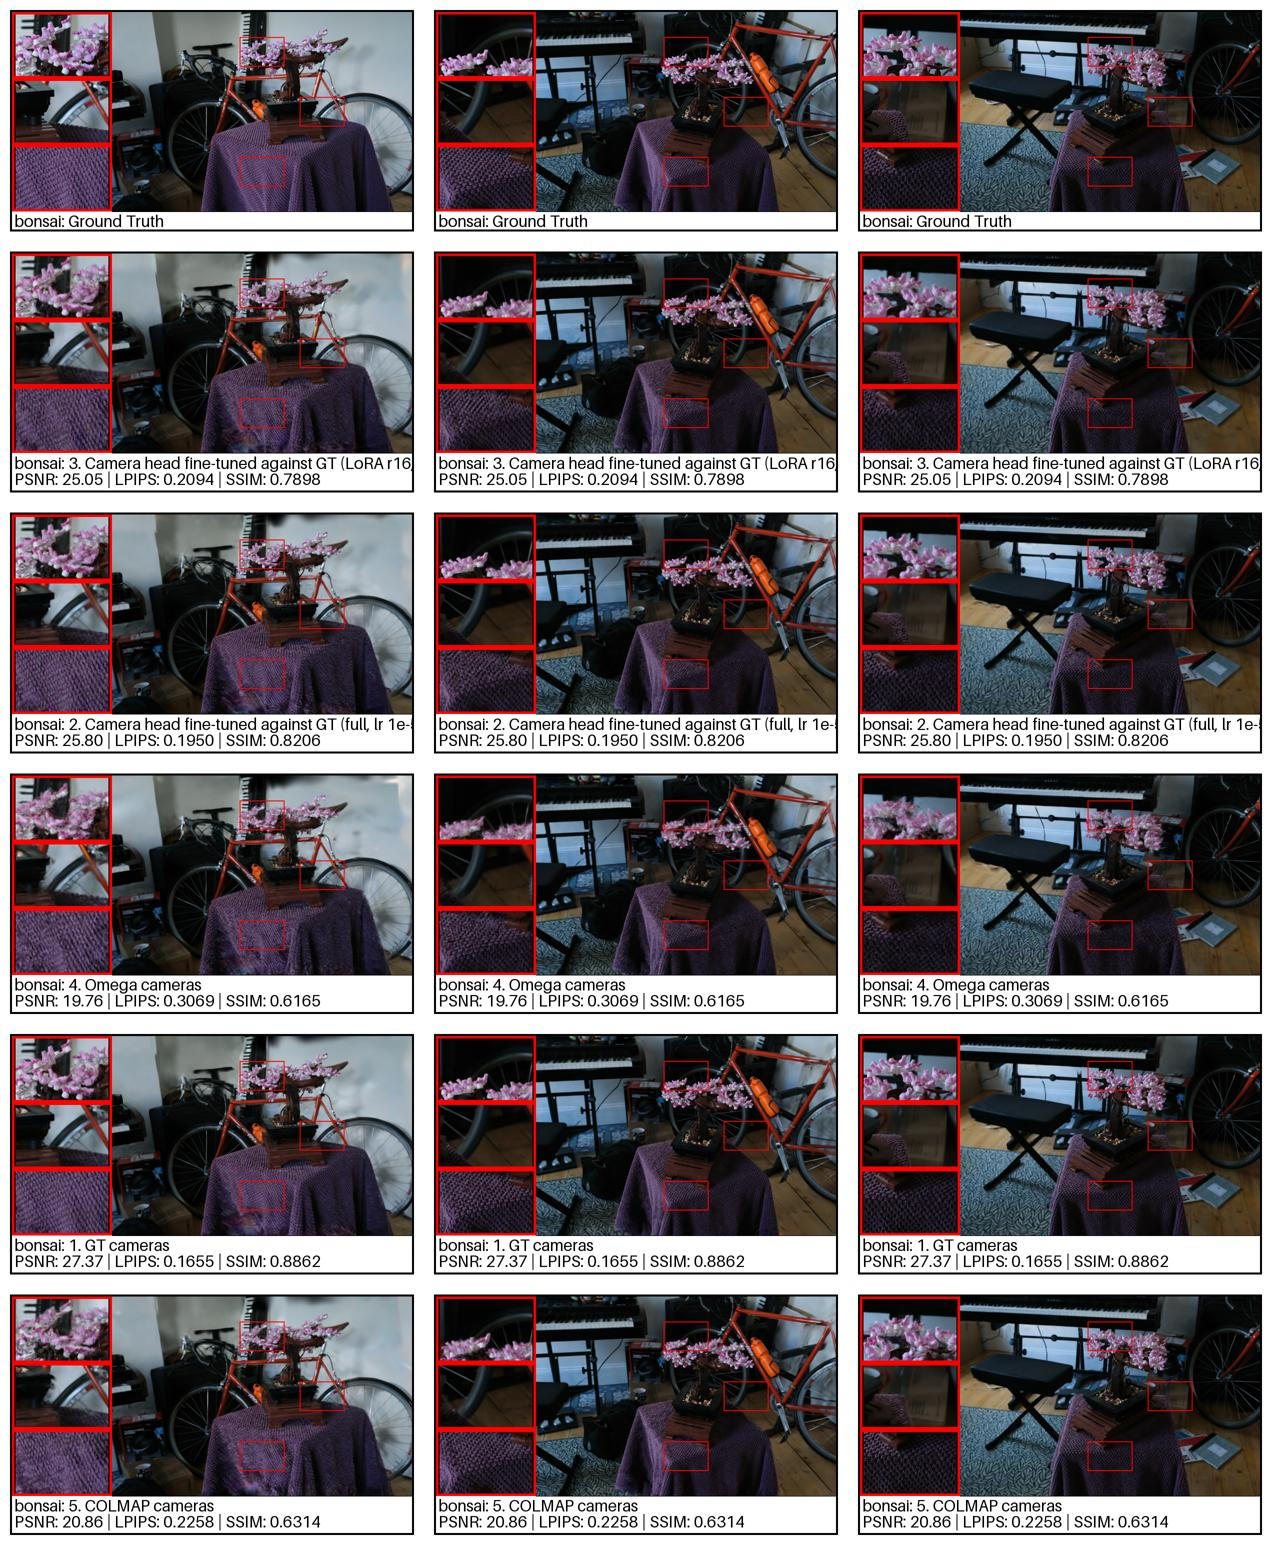
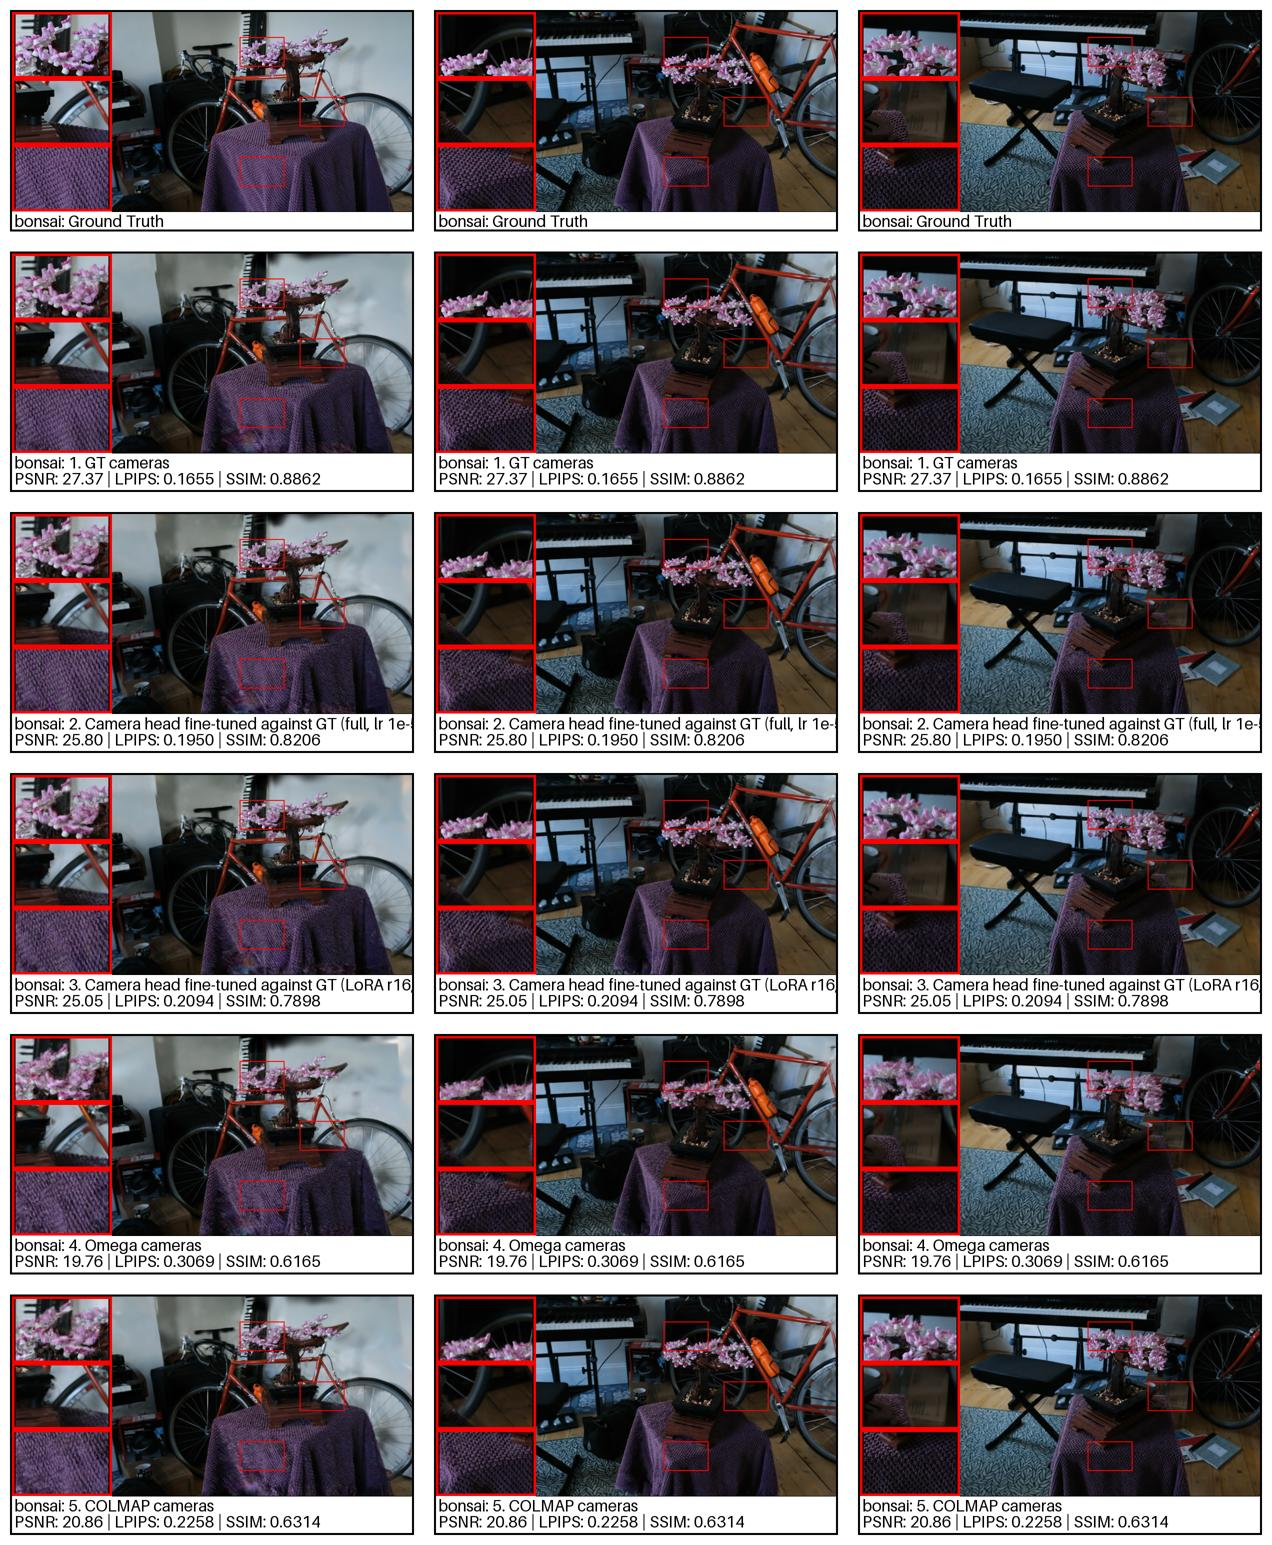
Ordered renders in the omega_cameras_7k log

diff --git a/experiments/2026-11-13_omega_cameras_7k/README.md b/experiments/2026-11-13_omega_cameras_7k/README.md
@@ -61,7 +61,7 @@ PSNR / SSIM / LPIPS at the evaluation steps, and the camera errors (constant ove
 
 Renders (runner plot config of `omega_cameras_7k`: `render_nums=[0, 2, 5]`, `max_render_cols=3`, ground truth row, zoom boxes,
 plain renders at step 7000; produced by `--plot_only`, copy of `latest_plots/102_omega_cameras_7k_bonsai_latest_renders.jpg`).
-Rows: ground truth, then arms 3, 2, 4, 1, 5:
+Rows: ground truth, then arms 1 to 5 (row order fixed in `vggt/plot_metrics.py`: the categorical order came from `list(set(...))`, now `dict.fromkeys`):
 
 ![renders](figures/renders.jpg)
 
